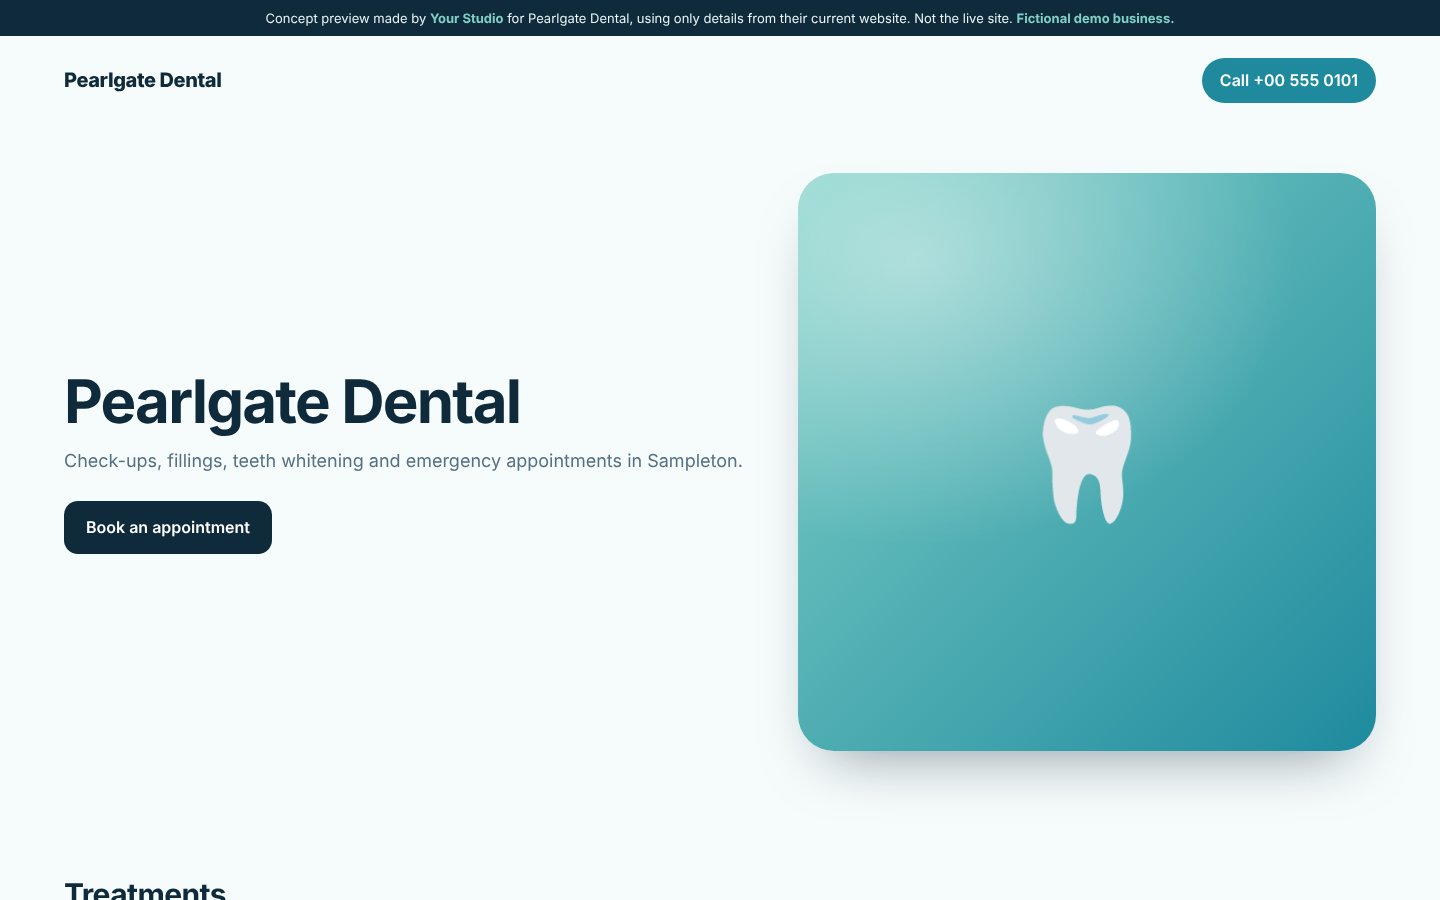
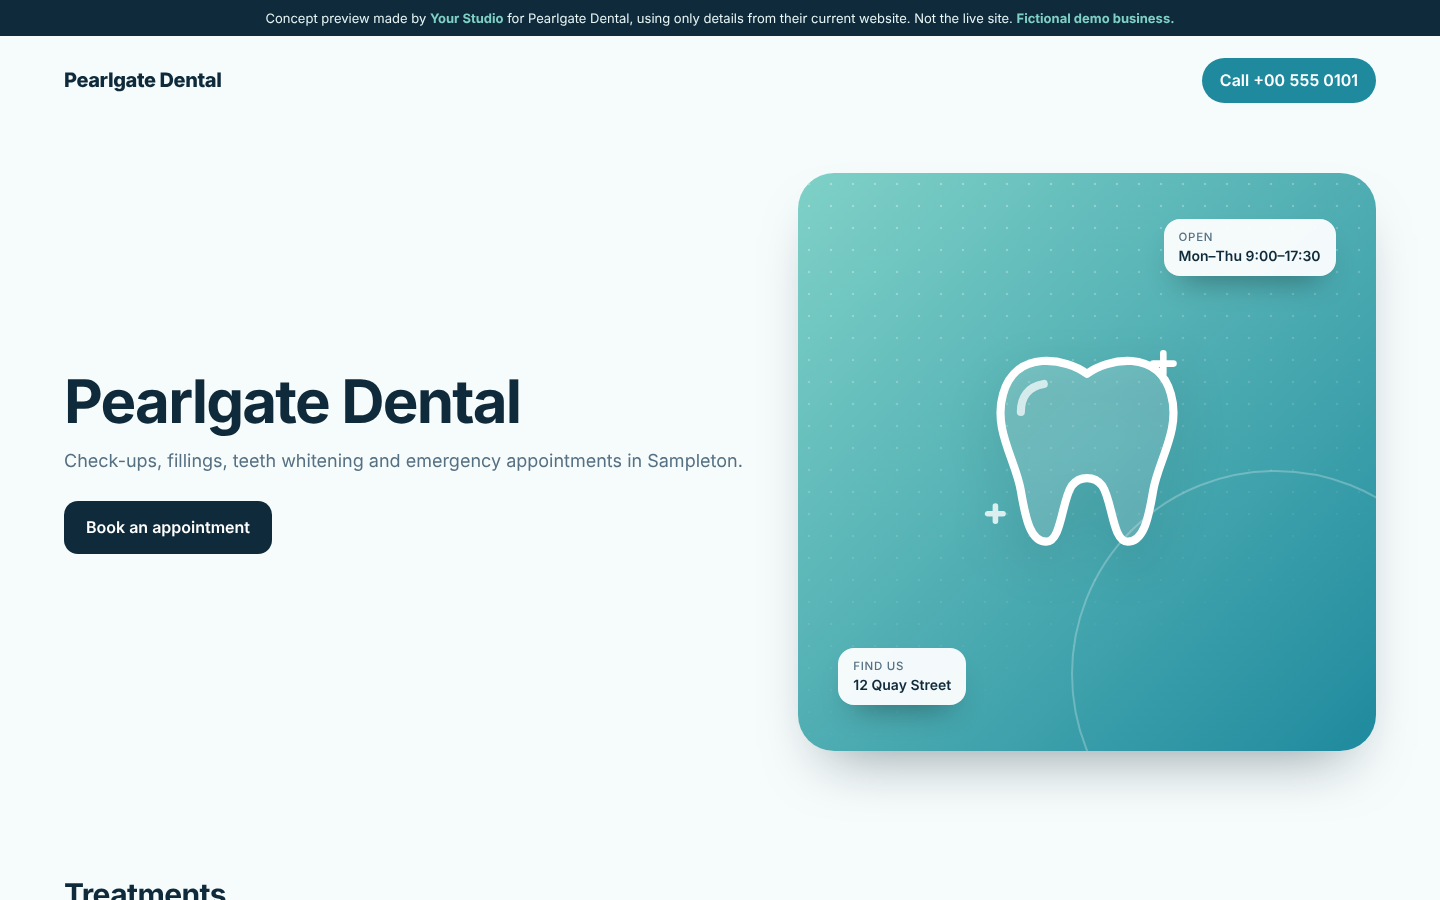
Siteo Office: designed concept hero (dot-grid card, line illustration, real address + hours chips) for dental and restaurants; new concept screenshots
Claude-Session: https://claude.ai/code/session_01Fmm6Wy6D1KLh1QqqmofF5d

Changed region(s): [[0.5312, 0.1867, 0.9375, 0.6222], [0.5625, 0.7156, 0.6875, 0.8089]]

diff --git a/niches/dental/template/index.html b/niches/dental/template/index.html
@@ -18,7 +18,13 @@
   .hero h1{font-size:clamp(34px,5.5vw,60px);line-height:1.05;margin:0 0 14px;letter-spacing:-.03em}
   .hero p{font-size:18px;color:var(--mut);margin:0 0 26px}
   .btn{display:inline-block;background:var(--ink);color:#fff;padding:14px 22px;border-radius:14px;text-decoration:none;font-weight:600}
-  .art{aspect-ratio:1/1;border-radius:36px;background:radial-gradient(120% 90% at 20% 15%,rgba(255,255,255,.45),transparent 55%),linear-gradient(135deg,var(--brand2),var(--brand));box-shadow:0 30px 60px -30px rgba(15,42,58,.5);display:grid;place-items:center;font-size:110px}
+  .art{position:relative;aspect-ratio:1/1;border-radius:36px;overflow:hidden;background:linear-gradient(135deg,var(--brand2),var(--brand));box-shadow:0 30px 60px -30px rgba(15,42,58,.5)}
+  .art:before{content:"";position:absolute;inset:0;background-image:radial-gradient(rgba(255,255,255,.32) 1.4px,transparent 1.6px);background-size:22px 22px;-webkit-mask-image:linear-gradient(160deg,#000 10%,transparent 80%);mask-image:linear-gradient(160deg,#000 10%,transparent 80%)}
+  .art:after{content:"";position:absolute;width:70%;aspect-ratio:1;right:-18%;bottom:-22%;border-radius:50%;border:2px solid rgba(255,255,255,.25)}
+  .art svg{position:absolute;left:50%;top:47%;width:44%;transform:translate(-50%,-50%);filter:drop-shadow(0 18px 24px rgba(0,0,0,.18))}
+  .chip{position:absolute;z-index:1;background:rgba(255,255,255,.94);color:var(--ink);border-radius:16px;padding:11px 15px;font-size:14px;font-weight:600;line-height:1.3;box-shadow:0 16px 32px -16px rgba(0,0,0,.45);max-width:68%}
+  .chip small{display:block;font-weight:500;color:var(--mut);font-size:11.5px;text-transform:uppercase;letter-spacing:.06em;margin-bottom:2px}
+  .chip.a{left:7%;bottom:8%}.chip.b{right:7%;top:8%}
   section{padding:56px clamp(16px,5vw,64px)}
   h2{font-size:30px;letter-spacing:-.02em;margin:0 0 22px}
   .grid{display:grid;grid-template-columns:repeat(auto-fill,minmax(220px,1fr));gap:16px}
@@ -29,7 +35,7 @@
   ul{margin:0;padding-left:18px}
   footer{padding:40px clamp(16px,5vw,64px);color:var(--mut);font-size:13px;display:flex;justify-content:space-between;flex-wrap:wrap;gap:8px}
   footer a{color:inherit}
-  @media(max-width:760px){.hero{grid-template-columns:1fr;padding-top:24px}.art{max-width:280px;font-size:80px}}
+  @media(max-width:760px){.hero{grid-template-columns:1fr;padding-top:24px}.art{max-width:340px}.chip{font-size:12.5px;padding:8px 11px}}
 </style>
 </head>
 <body>
@@ -45,7 +51,11 @@
     {{#business.phone}}<a class="btn" href="tel:{{business.phoneHref}}">{{copy.cta}}</a>{{/business.phone}}
     {{^business.phone}}{{#business.email}}<a class="btn" href="mailto:{{business.email}}">{{copy.cta}}</a>{{/business.email}}{{/business.phone}}
   </div>
-  <div class="art" aria-hidden="true">🦷</div>
+  <div class="art">
+    <span aria-hidden="true"><svg viewBox="0 0 100 100" fill="none" stroke="#fff" stroke-width="3.2" stroke-linecap="round" stroke-linejoin="round"><path d="M50 22C42 16 22 12 17 30C13 44 22 56 24 68C26 80 28 88 34 88C40 88 40 72 44 66C47 62 53 62 56 66C60 72 60 88 66 88C72 88 74 80 76 68C78 56 87 44 83 30C78 12 58 16 50 22Z" fill="rgba(255,255,255,.16)"/><path d="M33 26c-6 1-9 5-9 11" opacity=".7"/><path d="M80 14v8M76 18h8" stroke-width="2.6"/><path d="M14 74v6M11 77h6" stroke-width="2.2" opacity=".8"/></svg></span>
+    {{#business.address}}<div class="chip a"><small>Find us</small>{{business.address}}</div>{{/business.address}}
+    {{#business.hours.0}}<div class="chip b"><small>Open</small>{{business.hours.0}}</div>{{/business.hours.0}}
+  </div>
 </div>
 {{#show.services}}
 <section id="services"><h2>Treatments</h2><div class="grid">{{#copy.services}}<div class="card"><h3>{{name}}</h3>{{#description}}<p>{{description}}</p>{{/description}}</div>{{/copy.services}}</div></section>

diff --git a/niches/restaurants/template/index.html b/niches/restaurants/template/index.html
@@ -18,7 +18,13 @@
   .hero h1{font-size:clamp(34px,5.5vw,60px);line-height:1.05;margin:0 0 14px;letter-spacing:-.03em}
   .hero p{font-size:18px;color:var(--mut);margin:0 0 26px}
   .btn{display:inline-block;background:var(--ink);color:#fff;padding:14px 22px;border-radius:14px;text-decoration:none;font-weight:600}
-  .art{aspect-ratio:1/1;border-radius:36px;background:radial-gradient(120% 90% at 20% 15%,rgba(255,255,255,.45),transparent 55%),linear-gradient(135deg,var(--brand2),var(--brand));box-shadow:0 30px 60px -30px rgba(15,42,58,.5);display:grid;place-items:center;font-size:110px}
+  .art{position:relative;aspect-ratio:1/1;border-radius:36px;overflow:hidden;background:linear-gradient(135deg,var(--brand2),var(--brand));box-shadow:0 30px 60px -30px rgba(15,42,58,.5)}
+  .art:before{content:"";position:absolute;inset:0;background-image:radial-gradient(rgba(255,255,255,.32) 1.4px,transparent 1.6px);background-size:22px 22px;-webkit-mask-image:linear-gradient(160deg,#000 10%,transparent 80%);mask-image:linear-gradient(160deg,#000 10%,transparent 80%)}
+  .art:after{content:"";position:absolute;width:70%;aspect-ratio:1;right:-18%;bottom:-22%;border-radius:50%;border:2px solid rgba(255,255,255,.25)}
+  .art svg{position:absolute;left:50%;top:47%;width:44%;transform:translate(-50%,-50%);filter:drop-shadow(0 18px 24px rgba(0,0,0,.18))}
+  .chip{position:absolute;z-index:1;background:rgba(255,255,255,.94);color:var(--ink);border-radius:16px;padding:11px 15px;font-size:14px;font-weight:600;line-height:1.3;box-shadow:0 16px 32px -16px rgba(0,0,0,.45);max-width:68%}
+  .chip small{display:block;font-weight:500;color:var(--mut);font-size:11.5px;text-transform:uppercase;letter-spacing:.06em;margin-bottom:2px}
+  .chip.a{left:7%;bottom:8%}.chip.b{right:7%;top:8%}
   section{padding:56px clamp(16px,5vw,64px)}
   h2{font-size:30px;letter-spacing:-.02em;margin:0 0 22px}
   .grid{display:grid;grid-template-columns:repeat(auto-fill,minmax(220px,1fr));gap:16px}
@@ -29,7 +35,7 @@
   ul{margin:0;padding-left:18px}
   footer{padding:40px clamp(16px,5vw,64px);color:var(--mut);font-size:13px;display:flex;justify-content:space-between;flex-wrap:wrap;gap:8px}
   footer a{color:inherit}
-  @media(max-width:760px){.hero{grid-template-columns:1fr;padding-top:24px}.art{max-width:280px;font-size:80px}}
+  @media(max-width:760px){.hero{grid-template-columns:1fr;padding-top:24px}.art{max-width:340px}.chip{font-size:12.5px;padding:8px 11px}}
 </style>
 </head>
 <body>
@@ -45,7 +51,11 @@
     {{#business.phone}}<a class="btn" href="tel:{{business.phoneHref}}">{{copy.cta}}</a>{{/business.phone}}
     {{^business.phone}}{{#business.email}}<a class="btn" href="mailto:{{business.email}}">{{copy.cta}}</a>{{/business.email}}{{/business.phone}}
   </div>
-  <div class="art" aria-hidden="true">🍽</div>
+  <div class="art">
+    <span aria-hidden="true"><svg viewBox="0 0 100 100" fill="none" stroke="#fff" stroke-width="3" stroke-linecap="round" stroke-linejoin="round"><circle cx="50" cy="52" r="27" fill="rgba(255,255,255,.16)"/><circle cx="50" cy="52" r="18" opacity=".6"/><path d="M12 22v16c0 4 3 7 6 7s6-3 6-7V22M18 22v58"/><path d="M86 22c-7 6-7 24 0 30v28"/><path d="M44 47c2-3 5-4 8-3" opacity=".7"/></svg></span>
+    {{#business.address}}<div class="chip a"><small>Find us</small>{{business.address}}</div>{{/business.address}}
+    {{#business.hours.0}}<div class="chip b"><small>Open</small>{{business.hours.0}}</div>{{/business.hours.0}}
+  </div>
 </div>
 {{#show.services}}
 <section id="services"><h2>On the menu</h2><div class="grid">{{#copy.services}}<div class="card"><h3>{{name}}</h3>{{#description}}<p>{{description}}</p>{{/description}}</div>{{/copy.services}}</div></section>
